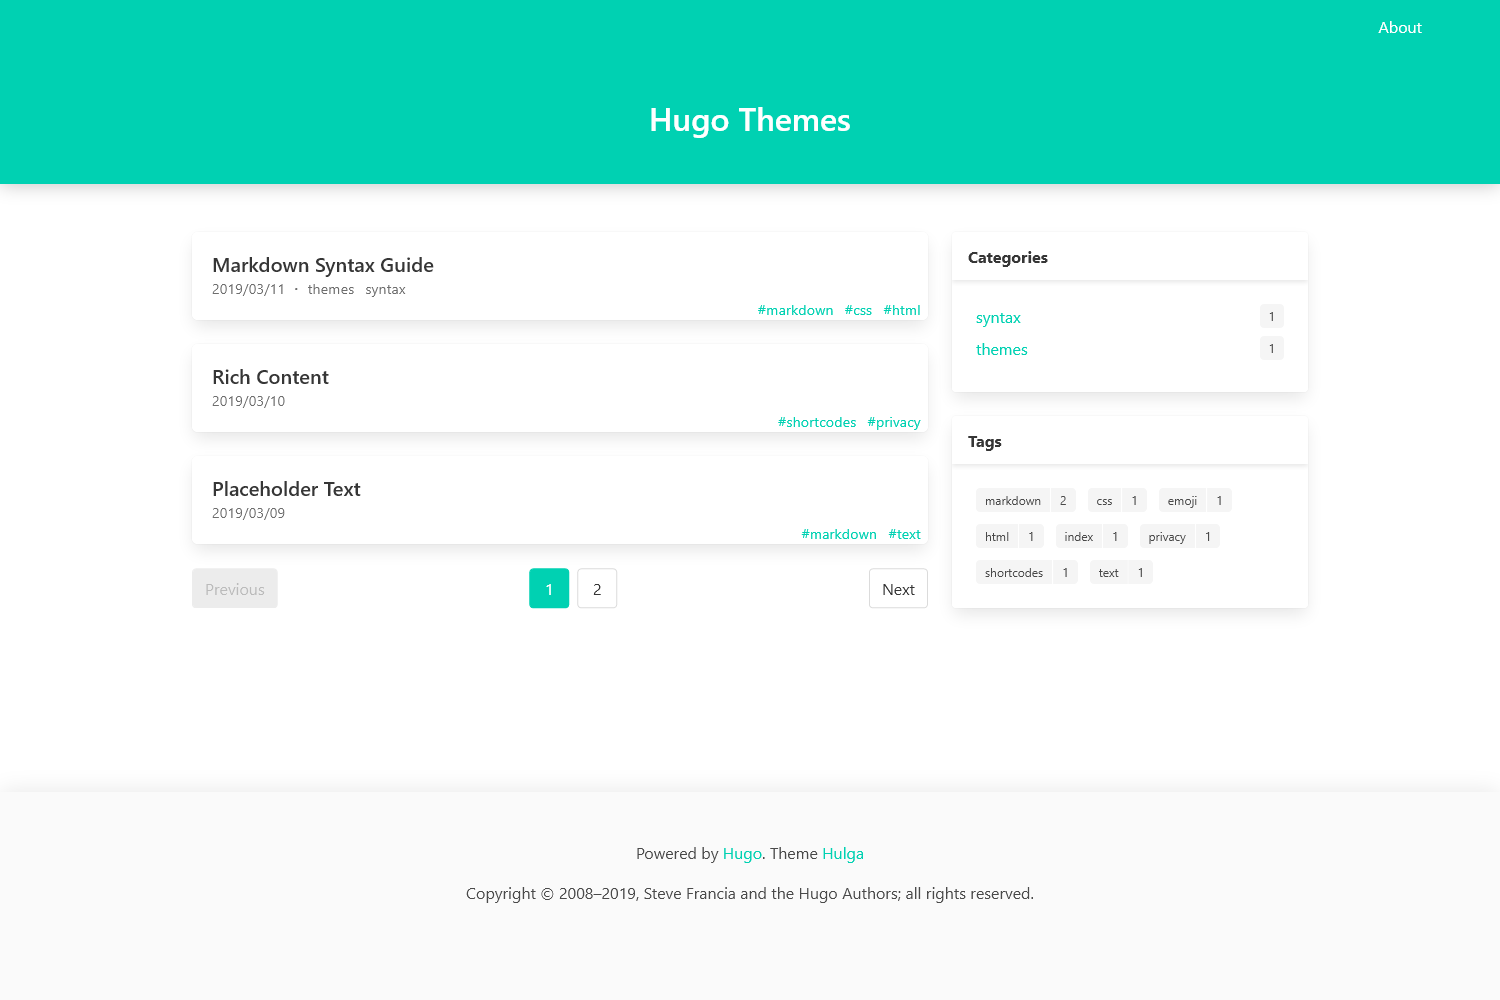
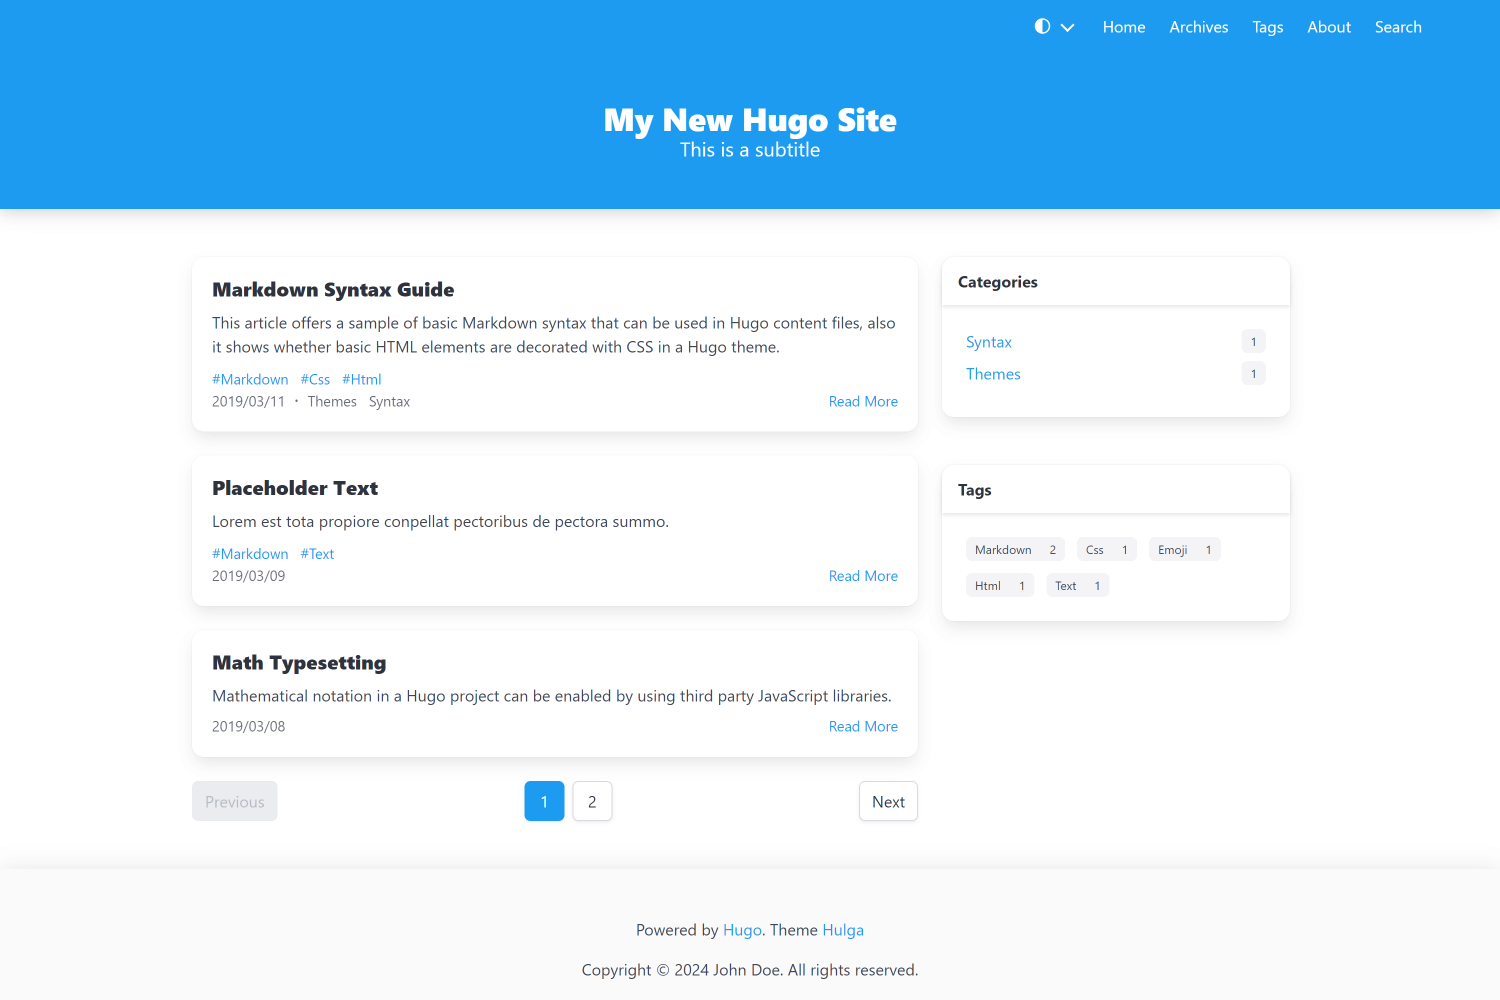
doc: update README and screenshot

diff --git a/README.md b/README.md
@@ -4,9 +4,13 @@
 
 ## Screenshot
 
-build `hugoBasicExample` without any config of this theme
+Build `exampleSite`, you will see:
 
 ![screenshot](https://github.com/wlh320/hugo-theme-hulga/blob/main/images/screenshot.png)
+
+You can also customize primary and secondary color, for example:
+
+![material color](https://github.com/wlh320/hugo-theme-hulga/blob/main/images/material.png)
 
 ## Demo
 
@@ -56,7 +60,7 @@ the theme to populate the articles. Ex. content\post
 
 ## Config
 
-You can check the config of the demo page in `hugo.toml`
+You can check the config of the demo site in `exampleSite/hugo.toml`
 
 An example of avaliable params:
 
@@ -170,11 +174,11 @@ tag = "tags"
 
 ## Acknowledgements
 
-- [Hugo](https://gohugo.io/) Static site generator
-- [Bulma](https://bulma.io/) CSS framework
-- [Purgecss](https://purgecss.com/) [cssnano](https://cssnano.co/) Purge CSS size
-- [Katex](https://katex.org/) $\LaTeX$ rendering
-- [anchorjs](https://github.com/bryanbraun/anchorjs) add anchor to title
-- [tocbot](https://tscanlin.github.io/tocbot/) generate table of contents
-- [vanilla-back-to-top](https://github.com/vfeskov/vanilla-back-to-top) back to top
+- [Hugo](https://gohugo.io/): Static site generator
+- [Bulma](https://bulma.io/): CSS framework
+- [Purgecss](https://purgecss.com/) [cssnano](https://cssnano.co/): Purge CSS size
+- [Katex](https://katex.org/): $\LaTeX$ rendering
+- [anchorjs](https://github.com/bryanbraun/anchorjs): Add anchor to title
+- [tocbot](https://tscanlin.github.io/tocbot/): Generate table of contents
+- [vanilla-back-to-top](https://github.com/vfeskov/vanilla-back-to-top): Add back-to-top button
 
